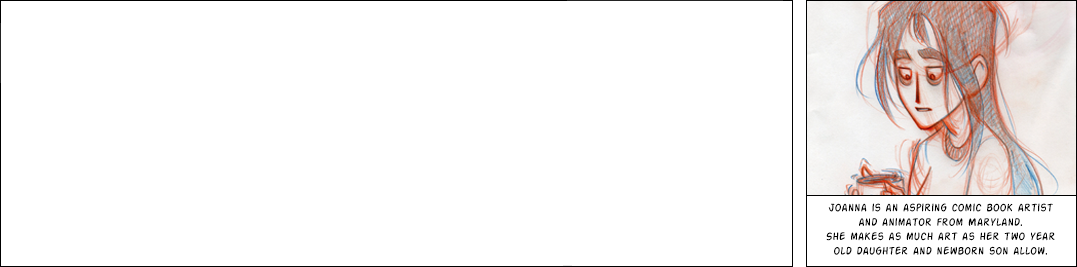
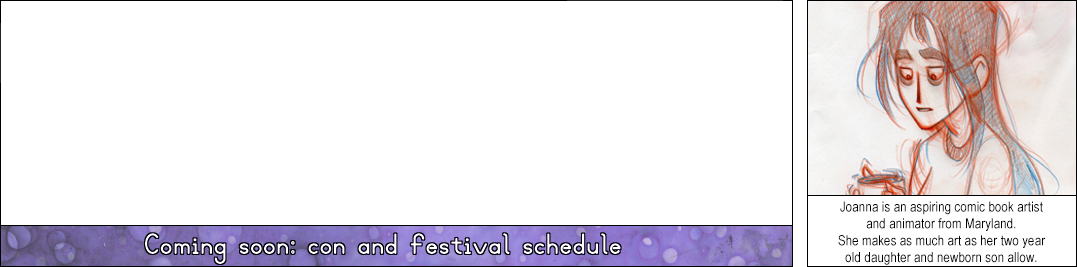
Image resizing and added description bar to Misc

Changed region(s): [[0.766, 0.0, 0.9805, 0.9888], [0.0, 0.839, 0.7354, 1.0]]

diff --git a/misc.html b/misc.html
@@ -25,8 +25,11 @@
           <td><a href="./cart.html"><img src="./images/Menu Buttons/Cart 58.png"></img></a></td>
         </tr>
 	  </table>
-    
-<p>Misc</p>
+      <table class="printsTable" >
+        <tr class="printTopRow">
+          <th colspan="3"><img src="./images/Description Bars/Miscellany/description_bar_stickers_ver2.png"></img></th>
+        </tr>
+	  </table>
     </div>
     <script
       src="https://cdn.reflowhq.com/v2/toolkit.min.js"

diff --git a/paintings.html b/paintings.html
@@ -26,7 +26,7 @@
           <td><a href="./cart.html"><img src="./images/Menu Buttons/Cart 58.png"></img></a></td>
         </tr>
 	  </table>
-    <table class="printsTable" >
+      <table class="printsTable" >
         <tr class="printTopRow">
           <th colspan="3"><img src="./images/Description Bars/Paintings/description_bar_landscapes.png"></img></th>
         </tr>
